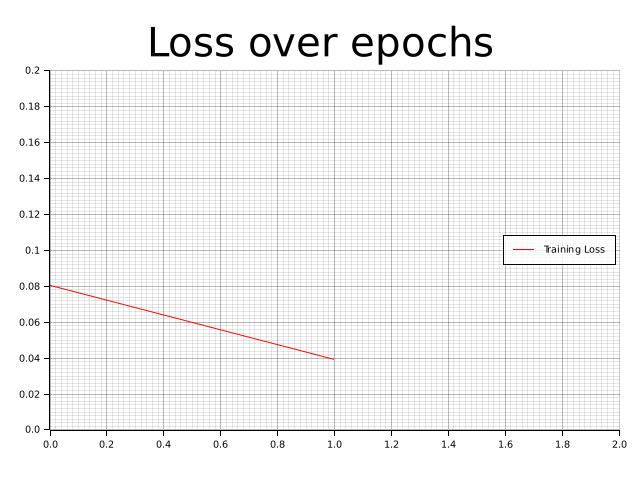
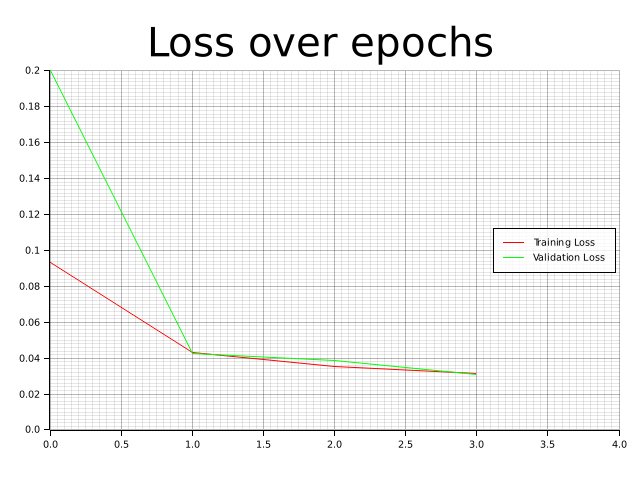
Refactor and process improvements. Best validation accuracy of 96%!

diff --git a/src/main.rs b/src/main.rs
@@ -1,9 +1,11 @@
+use core::net;
 use plotters::prelude::*;
 use rand::Rng;
 use std::env::current_exe;
 use std::fs;
 use std::fs::File;
 use std::io::Read;
+use std::process::Output;
 use std::time::SystemTime;
 use std::vec;
 
@@ -149,6 +151,58 @@ impl Network {
             grad = layer.backward(&grad, learning_rate);
         }
     }
+
+    fn train(
+        &mut self,
+        dataset: &Vec<Vec<f64>>,
+        labels: &Vec<Vec<f64>>,
+        learning_rate: f64,
+    ) -> f64 {
+        let mut loss_sum = 0.0;
+        for i in 0..dataset.len() {
+            let output = self.forward(&dataset[i]);
+            let loss = rmse(&output, &labels[i]); // mean squared error
+            loss_sum += loss;
+
+            let dl_dout = network_gradient_loss(&output, &labels[i]);
+            self.backward(&dl_dout, learning_rate);
+        }
+        loss_sum / dataset.len() as f64
+    }
+
+    fn validation_loss(&mut self, dataset: &Vec<Vec<f64>>, labels: &Vec<Vec<f64>>) -> f64 {
+        let mut validation_loss_sum = 0.0;
+        for i in 0..dataset.len() {
+            let output = self.forward(&dataset[i]);
+            let loss = rmse(&output, &labels[i]);
+            validation_loss_sum += loss;
+        }
+        validation_loss_sum / dataset.len() as f64
+    }
+
+    fn accuracy(&mut self, dataset: &Vec<Vec<f64>>, labels: &Vec<Vec<f64>>) -> f64 {
+        let mut accuracy = 0.0;
+        for i in 0..dataset.len() {
+            let output = self.forward(&dataset[i]);
+            // https://stackoverflow.com/questions/53903318/what-is-the-idiomatic-way-to-get-the-index-of-a-maximum-or-minimum-floating-poin
+            let predicted = output
+                .iter()
+                .enumerate()
+                .max_by(|(_, a), (_, b)| a.total_cmp(b))
+                .map(|(index, _)| index)
+                .unwrap();
+            let actual = labels[i]
+                .iter()
+                .enumerate()
+                .max_by(|(_, a), (_, b)| a.total_cmp(b))
+                .map(|(index, _)| index)
+                .unwrap();
+            if predicted == actual {
+                accuracy += 1.0;
+            }
+        }
+        accuracy / dataset.len() as f64
+    }
 }
 
 fn normalize_images(input: Vec<Vec<Vec<u8>>>) -> Vec<Vec<Vec<f64>>> {
@@ -234,7 +288,10 @@ fn draw_mnist(image: Vec<Vec<f64>>) -> Result<(), Box<dyn std::error::Error>> {
     Ok(())
 }
 
-fn draw_loss_over_time(losses: &Vec<f64>) -> Result<(), Box<dyn std::error::Error>> {
+fn draw_loss_over_time(
+    losses: &Vec<f64>,
+    validation_losses: &Vec<f64>,
+) -> Result<(), Box<dyn std::error::Error>> {
     // Create a drawing area for the plot
     let root = BitMapBackend::new("line_plot.png", (640, 480)).into_drawing_area();
     root.fill(&WHITE)?;
@@ -259,6 +316,16 @@ fn draw_loss_over_time(losses: &Vec<f64>) -> Result<(), Box<dyn std::error::Erro
         ))?
         .label("Training Loss")
         .legend(|(x, y)| PathElement::new(vec![(x, y), (x + 20, y)], &RED));
+    chart
+        .draw_series(LineSeries::new(
+            validation_losses
+                .iter()
+                .enumerate()
+                .map(|(i, &loss)| (i as f64, loss)),
+            &GREEN,
+        ))?
+        .label("Validation Loss")
+        .legend(|(x, y)| PathElement::new(vec![(x, y), (x + 20, y)], &GREEN));
 
     // Add legend to the chart
     chart
@@ -282,8 +349,18 @@ fn rmse(current: &Vec<f64>, target: &Vec<f64>) -> f64 {
     (sum_squared_error / n as f64).sqrt()
 }
 
+// dl/dout (Gradient of loss for the network) = (output - target)
+fn network_gradient_loss(predictions: &Vec<f64>, target: &Vec<f64>) -> Vec<f64> {
+    predictions
+        .into_iter()
+        .zip(target.clone().into_iter())
+        .map(|(o, t)| (o - t))
+        .collect()
+}
+
 fn main() {
     let mut losses: Vec<f64> = vec![];
+    let mut validation_losses: Vec<f64> = vec![];
 
     //#########################################################################
     // Load data
@@ -293,14 +370,8 @@ fn main() {
     let dataset: Vec<Vec<Vec<f64>>> =
         load_dataset_mnist_images("datasets/mnist/train-images.idx3-ubyte");
     let labels: Vec<u8> = load_dataset_mnist_label("datasets/mnist/train-labels.idx1-ubyte");
-
-    // Profiling
-    // let dataset: Vec<Vec<Vec<f64>>> =
-    //     load_dataset_mnist_images("datasets/mnist/t10k-images.idx3-ubyte");
-    // let labels: Vec<u8> = load_dataset_mnist_label("datasets/mnist/t10k-labels.idx1-ubyte");
-
     let flat_dataset: Vec<Vec<f64>> = flatten_images(dataset.clone());
-    let flat_labels = flatten_labels(labels.clone());
+    let flat_labels: Vec<Vec<f64>> = flatten_labels(labels.clone());
 
     // Validation
     let validation_dataset: Vec<Vec<Vec<f64>>> =
@@ -315,10 +386,6 @@ fn main() {
     //#########################################################################
 
     let mut network = Network::new(&[784, 128, 10]);
-
-    // Profiling
-    // let mut network = Network::new(&[784, 10]);
-
     let learning_rate = 0.5;
 
     //#########################################################################
@@ -327,54 +394,44 @@ fn main() {
     let start = SystemTime::now();
     let mut dt = SystemTime::now().duration_since(start).expect("Error");
     let mut epoch = 0;
-    let mut avg_epoch_time = 0.0;
+    let avg_epoch_time;
+    let mut prev_validation_loss = 1.0;
+    let mut validation_loss = 1.0;
 
-    while dt.as_millis() < 10_000 {
-        let mut loss_sum = 0.0;
-        for i in 0..flat_dataset.len() {
-            let output = network.forward(&flat_dataset[i]);
-            let loss = rmse(&output, &flat_labels[i]); // mean squared error
-            loss_sum += loss;
-
-            // dl/dout (Gradient of loss for the network) = (output - target)
-            let dl_dout = output
-                .into_iter()
-                .zip(flat_labels[i].clone().into_iter())
-                .map(|(o, t)| (o - t))
-                .collect();
-            network.backward(&dl_dout, learning_rate);
-        }
-        let loss_avg = loss_sum / flat_dataset.len() as f64;
+    while dt.as_millis() < 10000_000 && validation_loss <= prev_validation_loss {
+        let loss_avg = network.train(&flat_dataset, &flat_labels, learning_rate);
         losses.push(loss_avg);
+        prev_validation_loss = validation_loss;
+        validation_losses.push(validation_loss);
+
+        validation_loss =
+            network.validation_loss(&validation_flat_dataset, &validation_flat_labels);
+        let accuracy = network.accuracy(&validation_flat_dataset, &validation_flat_labels);
+
         dt = SystemTime::now().duration_since(start).expect("Error");
         epoch += 1;
-        if epoch % 1 == 0 {
-            println!(
-                "Epoch {}, Total time: {}: avg loss = {}",
-                epoch,
-                dt.as_millis(),
-                loss_avg
-            );
-        }
+        println!(
+            "Epoch: {}, Total time: {} | Training loss: {}, Validation loss: {}, Validation accuracy: {}",
+            epoch,
+            dt.as_millis(),
+            loss_avg,
+            validation_loss,
+            accuracy,
+        );
     }
     avg_epoch_time = dt.as_millis() as f64 / epoch as f64;
 
     //#########################################################################
     // Testing
     //#########################################################################
-    let mut validation_loss_sum = 0.0;
-    for i in 0..validation_flat_dataset.len() {
-        let output = network.forward(&validation_flat_dataset[i]);
-        let loss = rmse(&output, &validation_flat_labels[i]);
-        validation_loss_sum += loss;
-    }
-    let validation_loss = validation_loss_sum / validation_flat_dataset.len() as f64;
+    let validation_loss =
+        network.validation_loss(&validation_flat_dataset, &validation_flat_labels);
     println!("Validation loss: {}", validation_loss);
 
     //#########################################################################
     // Visualization
     //#########################################################################
-    let _ = draw_loss_over_time(&losses);
+    let _ = draw_loss_over_time(&losses, &validation_losses);
     let data = format!("{:?}, {}", validation_loss, avg_epoch_time);
     fs::write("last_mnist_results", data).expect("Unable to write file");
 }
